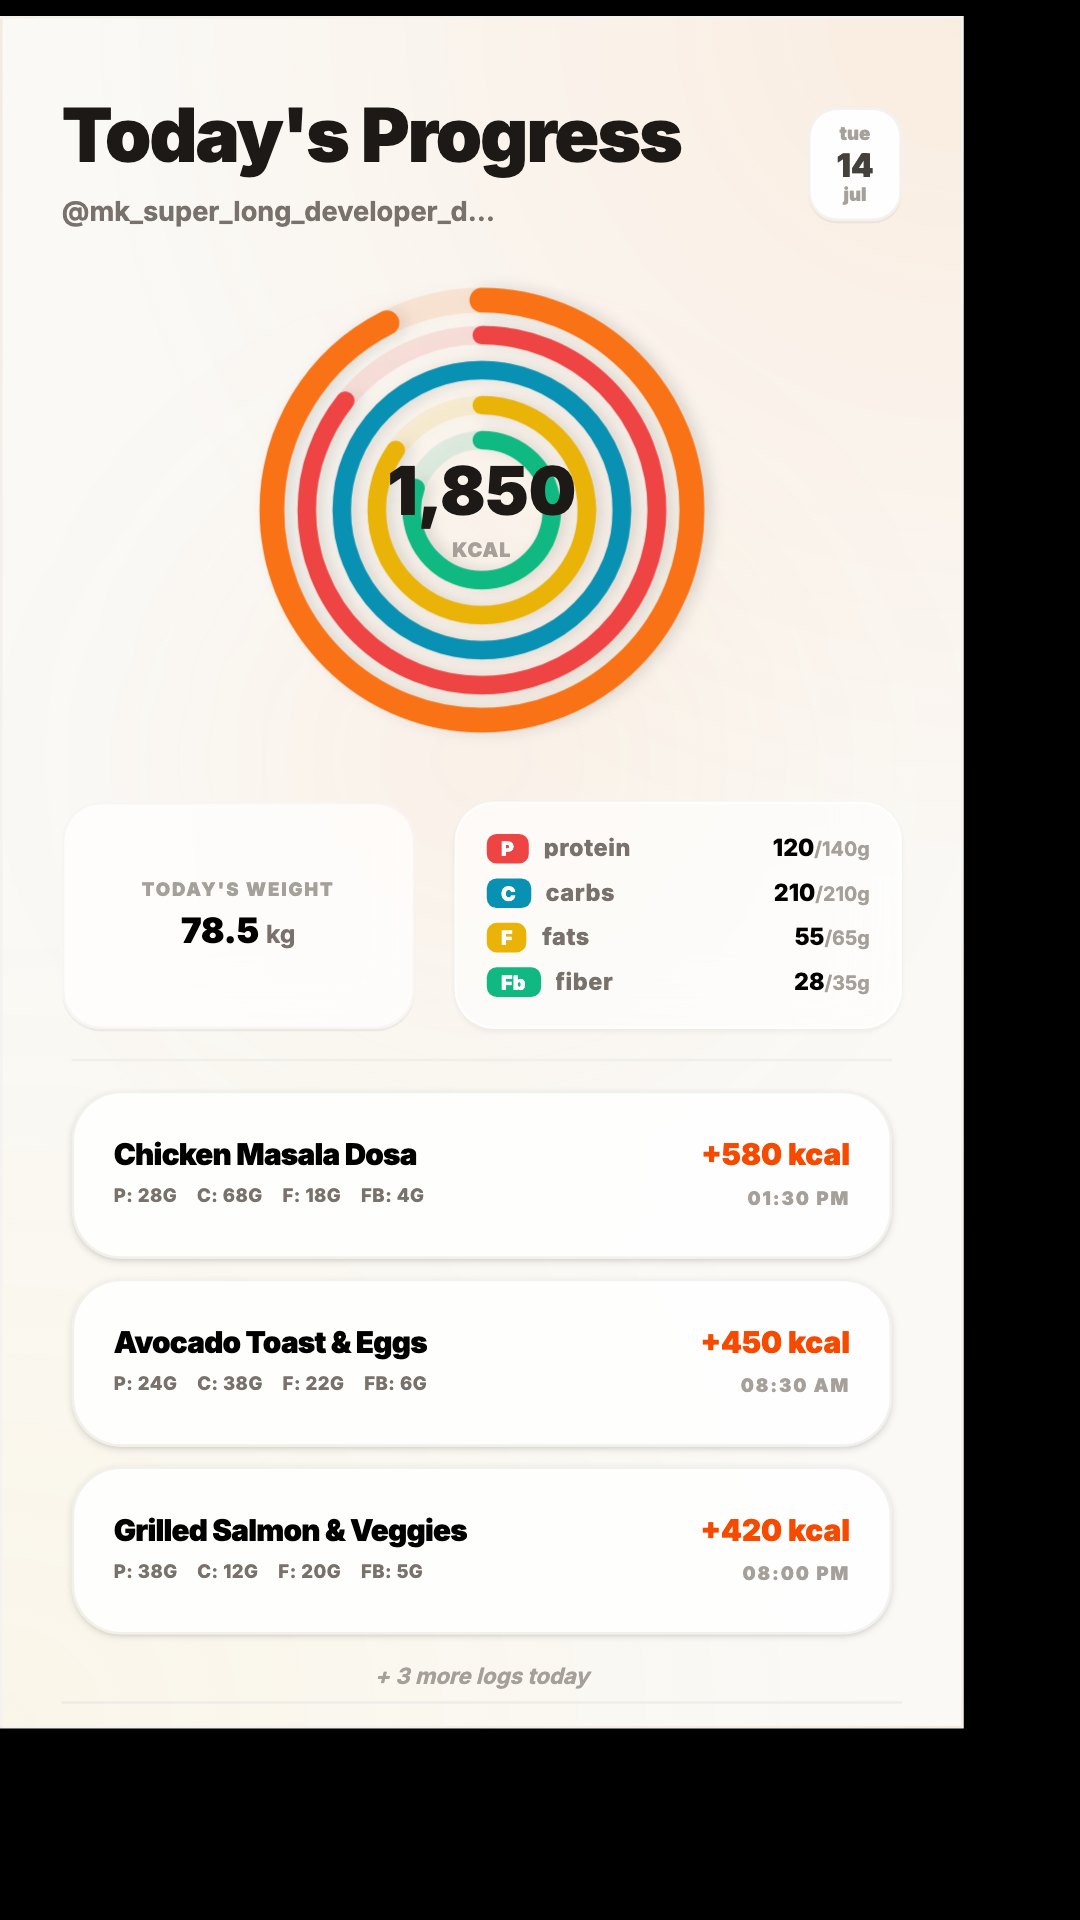
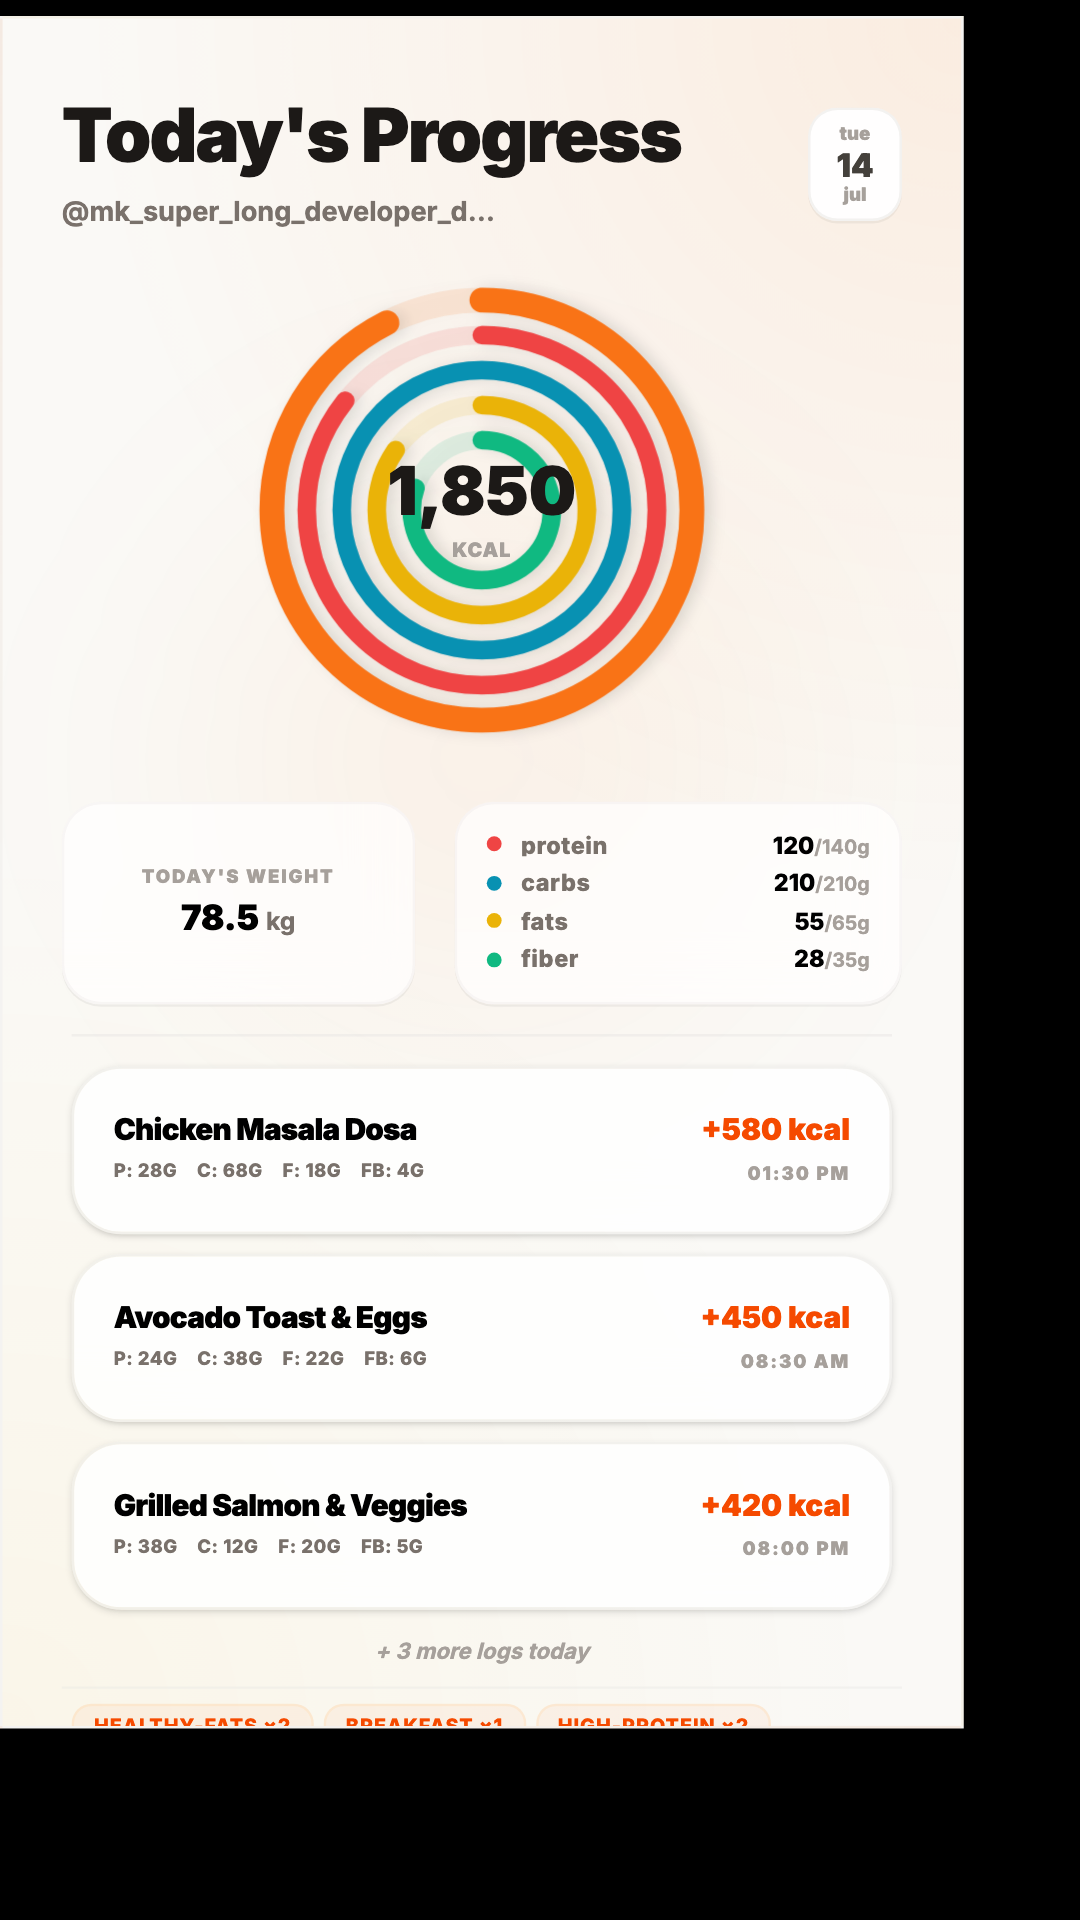
fix: prevent auto-logging weight logs during onboarding wizard flow

diff --git a/src/components/sharecards/ObsidianCardComponent.tsx b/src/components/sharecards/ObsidianCardComponent.tsx
@@ -370,28 +370,28 @@ export const ObsidianCardComponent: React.FC<ObsidianCardComponentProps> = ({
         <div className="flex flex-col items-center gap-3 my-2 z-10 shrink-0 w-full select-none">
           {/* Hero Centered Master Concentric Rings Widget */}
           {(() => {
-            // Outermost (Thick): Calories (Orange #F97316, radius=51, strokeWidth=6.5)
-            const rCal = 51;
+            // Outermost (Thick): Calories (Orange #F97316, radius=52, strokeWidth=4.5)
+            const rCal = 52;
             const circCal = 2 * Math.PI * rCal;
             const offCal = circCal - Math.min(1, totalCalories / goalCalories) * circCal;
 
-            // Ring 2: Protein (Red #EF4444, radius=42.5, strokeWidth=4.5)
-            const rProt = 42.5;
+            // Ring 2: Protein (Red #EF4444, radius=47, strokeWidth=4)
+            const rProt = 47;
             const circProt = 2 * Math.PI * rProt;
             const offProt = circProt - Math.min(1, protein / targetProtein) * circProt;
 
-            // Ring 3: Carbs (Cyan #0891B2, radius=34, strokeWidth=4.5)
-            const rCarbs = 34;
+            // Ring 3: Carbs (Cyan #0891B2, radius=42, strokeWidth=4)
+            const rCarbs = 42;
             const circCarbs = 2 * Math.PI * rCarbs;
             const offCarbs = circCarbs - Math.min(1, carbs / targetCarbs) * circCarbs;
 
-            // Ring 4: Fats (Amber #EAB308, radius=25.5, strokeWidth=4.5)
-            const rFats = 25.5;
+            // Ring 4: Fats (Amber #EAB308, radius=37, strokeWidth=4)
+            const rFats = 37;
             const circFats = 2 * Math.PI * rFats;
             const offFats = circFats - Math.min(1, fats / targetFats) * circFats;
 
-            // Innermost: Fiber (Emerald #10B981, radius=17, strokeWidth=4.5)
-            const rFib = 17;
+            // Innermost: Fiber (Emerald #10B981, radius=32, strokeWidth=4)
+            const rFib = 32;
             const circFib = 2 * Math.PI * rFib;
             const offFib = circFib - Math.min(1, fiber / targetFiber) * circFib;
 
@@ -407,7 +407,7 @@ export const ObsidianCardComponent: React.FC<ObsidianCardComponentProps> = ({
                     cx="60"
                     cy="60"
                     r={rCal}
-                    strokeWidth="6"
+                    strokeWidth="4.5"
                     fill="transparent"
                     stroke="rgba(249, 115, 22, 0.12)"
                   />
@@ -416,7 +416,7 @@ export const ObsidianCardComponent: React.FC<ObsidianCardComponentProps> = ({
                     cx="60"
                     cy="60"
                     r={rCal}
-                    strokeWidth="6"
+                    strokeWidth="4.5"
                     fill="transparent"
                     strokeLinecap="round"
                     stroke="#F97316"
@@ -429,7 +429,7 @@ export const ObsidianCardComponent: React.FC<ObsidianCardComponentProps> = ({
                     cx="60"
                     cy="60"
                     r={rProt}
-                    strokeWidth="4.5"
+                    strokeWidth="4"
                     fill="transparent"
                     stroke="rgba(239, 68, 68, 0.12)"
                   />
@@ -438,7 +438,7 @@ export const ObsidianCardComponent: React.FC<ObsidianCardComponentProps> = ({
                     cx="60"
                     cy="60"
                     r={rProt}
-                    strokeWidth="4.5"
+                    strokeWidth="4"
                     fill="transparent"
                     strokeLinecap="round"
                     stroke="#EF4444"
@@ -451,7 +451,7 @@ export const ObsidianCardComponent: React.FC<ObsidianCardComponentProps> = ({
                     cx="60"
                     cy="60"
                     r={rCarbs}
-                    strokeWidth="4.5"
+                    strokeWidth="4"
                     fill="transparent"
                     stroke="rgba(8, 145, 178, 0.12)"
                   />
@@ -460,7 +460,7 @@ export const ObsidianCardComponent: React.FC<ObsidianCardComponentProps> = ({
                     cx="60"
                     cy="60"
                     r={rCarbs}
-                    strokeWidth="4.5"
+                    strokeWidth="4"
                     fill="transparent"
                     strokeLinecap="round"
                     stroke="#0891B2"
@@ -473,7 +473,7 @@ export const ObsidianCardComponent: React.FC<ObsidianCardComponentProps> = ({
                     cx="60"
                     cy="60"
                     r={rFats}
-                    strokeWidth="4.5"
+                    strokeWidth="4"
                     fill="transparent"
                     stroke="rgba(234, 179, 8, 0.12)"
                   />
@@ -482,7 +482,7 @@ export const ObsidianCardComponent: React.FC<ObsidianCardComponentProps> = ({
                     cx="60"
                     cy="60"
                     r={rFats}
-                    strokeWidth="4.5"
+                    strokeWidth="4"
                     fill="transparent"
                     strokeLinecap="round"
                     stroke="#EAB308"
@@ -495,7 +495,7 @@ export const ObsidianCardComponent: React.FC<ObsidianCardComponentProps> = ({
                     cx="60"
                     cy="60"
                     r={rFib}
-                    strokeWidth="4.5"
+                    strokeWidth="4"
                     fill="transparent"
                     stroke="rgba(16, 185, 129, 0.12)"
                   />
@@ -504,7 +504,7 @@ export const ObsidianCardComponent: React.FC<ObsidianCardComponentProps> = ({
                     cx="60"
                     cy="60"
                     r={rFib}
-                    strokeWidth="4.5"
+                    strokeWidth="4"
                     fill="transparent"
                     strokeLinecap="round"
                     stroke="#10B981"
@@ -720,34 +720,6 @@ export const ObsidianCardComponent: React.FC<ObsidianCardComponentProps> = ({
         </div>
       )}
 
-      {/* Tag Hits Summary Row */}
-      {(() => {
-        const activeTags = (Object.entries(
-          mealsList.reduce((acc: Record<string, number>, m: any) => {
-            if (m.tags && Array.isArray(m.tags)) {
-              m.tags.forEach((tag: string) => {
-                acc[tag] = (acc[tag] || 0) + 1;
-              });
-            }
-            return acc;
-          }, {})
-        ) as [string, number][]).filter(([_, count]) => count > 0);
-
-        if (activeTags.length === 0) return null;
-
-        return (
-          <div className="flex flex-wrap gap-1 px-1 py-1.5 border-t border-stone-200/40 z-10 shrink-0 select-none mt-2">
-            {activeTags.slice(0, 5).map(([tag, count]) => (
-              <div
-                key={tag}
-                className="inline-flex items-center gap-1 px-2 py-0.5 rounded-lg border border-orange-200/30 bg-orange-500/5 text-orange-600 font-extrabold text-[8px] uppercase tracking-wider"
-              >
-                {tag} ×{count}
-              </div>
-            ))}
-          </div>
-        );
-      })()}
 
       {/* 6. Footer (App branding footprint) */}
       <footer className="border-t border-stone-200/60 pt-3.5 flex justify-between items-center z-10 shrink-0 px-1 mt-1">

diff --git a/src/components/sharecards/drawObsidianCard.ts b/src/components/sharecards/drawObsidianCard.ts
@@ -417,48 +417,10 @@ export function drawObsidianCard(dc: CardDrawContext): void {
     ctx.fillText(`+ ${mealsList.length - topMeals.length} more meals logged`, 100, moreY + 14);
   }
 
-  // Draw tag hits summary row right above footer divider
-  const activeTags = (Object.entries(
-    mealsList.reduce((acc: Record<string, number>, m: any) => {
-      if (m.tags && Array.isArray(m.tags)) {
-        m.tags.forEach((tag: string) => {
-          acc[tag] = (acc[tag] || 0) + 1;
-        });
-      }
-      return acc;
-    }, {})
-  ) as [string, number][]).filter(([_, count]) => count > 0);
-
   // =================================================================
   // FOOTER — Clean branding
   // =================================================================
   const footerY = H - 100;
-
-  if (activeTags.length > 0) {
-    ctx.font = "800 16px Inter, system-ui, sans-serif";
-    let currentX = 80;
-    const tagsY = footerY - 45;
-    activeTags.slice(0, 5).forEach(([tag, count]) => {
-      const label = `${tag.toUpperCase()} ×${count}`;
-      const textWidth = ctx.measureText(label).width;
-      const pillW = textWidth + 24;
-
-      ctx.fillStyle = "rgba(255, 112, 8, 0.06)";
-      ctx.beginPath();
-      ctx.roundRect(currentX, tagsY, pillW, 30, 8);
-      ctx.fill();
-
-      ctx.strokeStyle = "rgba(255, 112, 8, 0.15)";
-      ctx.lineWidth = 1;
-      ctx.beginPath();
-      ctx.roundRect(currentX, tagsY, pillW, 30, 8);
-      ctx.stroke();
-
-      ctx.fillStyle = "#FF7008";
-      ctx.fillText(label, currentX + 12, tagsY + 20);
-      currentX += pillW + 10;
-    });
-  }
 
   // Subtle divider line
   ctx.strokeStyle = "rgba(42, 24, 16, 0.06)";

diff --git a/src/components/InsightsView.tsx b/src/components/InsightsView.tsx
@@ -94,16 +94,15 @@ export const InsightsView = ({
   }, [weightLogs, timeRange]);
 
   const weightStats = useMemo(() => {
-    if (!weightLogs || weightLogs.length === 0) {
+    if (!filteredWeightData || filteredWeightData.length === 0) {
       return { start: profileData.weight, current: profileData.weight, goal: profileData.goals.weightGoal, change: 0 };
     }
-    const sorted = [...weightLogs].sort((a, b) => a.date.localeCompare(b.date));
-    const start = sorted[0].weight;
-    const current = sorted[sorted.length - 1].weight;
+    const start = filteredWeightData[0].weight;
+    const current = filteredWeightData[filteredWeightData.length - 1].weight;
     const goal = profileData.goals.weightGoal || 70;
     const change = current - start;
     return { start, current, goal, change };
-  }, [weightLogs, profileData.weight, profileData.goals.weightGoal]);
+  }, [filteredWeightData, profileData.weight, profileData.goals.weightGoal]);
 
   const localFormatDateStr = (date: Date) => {
     const y = date.getFullYear();

diff --git a/src/App.tsx b/src/App.tsx
@@ -798,7 +798,8 @@ export default function App() {
     
     setProfileDataState(resolvedData);
 
-    if (!isDataLoading && resolvedData.agent_config?.trackWeight && resolvedData.weight !== profileDataRef.current.weight) {
+    const wasOnboarded = profileDataRef.current.preferences?.includes("onboarded");
+    if (!isDataLoading && resolvedData.agent_config?.trackWeight && wasOnboarded && resolvedData.weight !== profileDataRef.current.weight) {
       const todayStr = new Date().toLocaleDateString("en-CA");
       setWeightLogs(prev => {
         const filtered = prev.filter(l => l.date !== todayStr);
